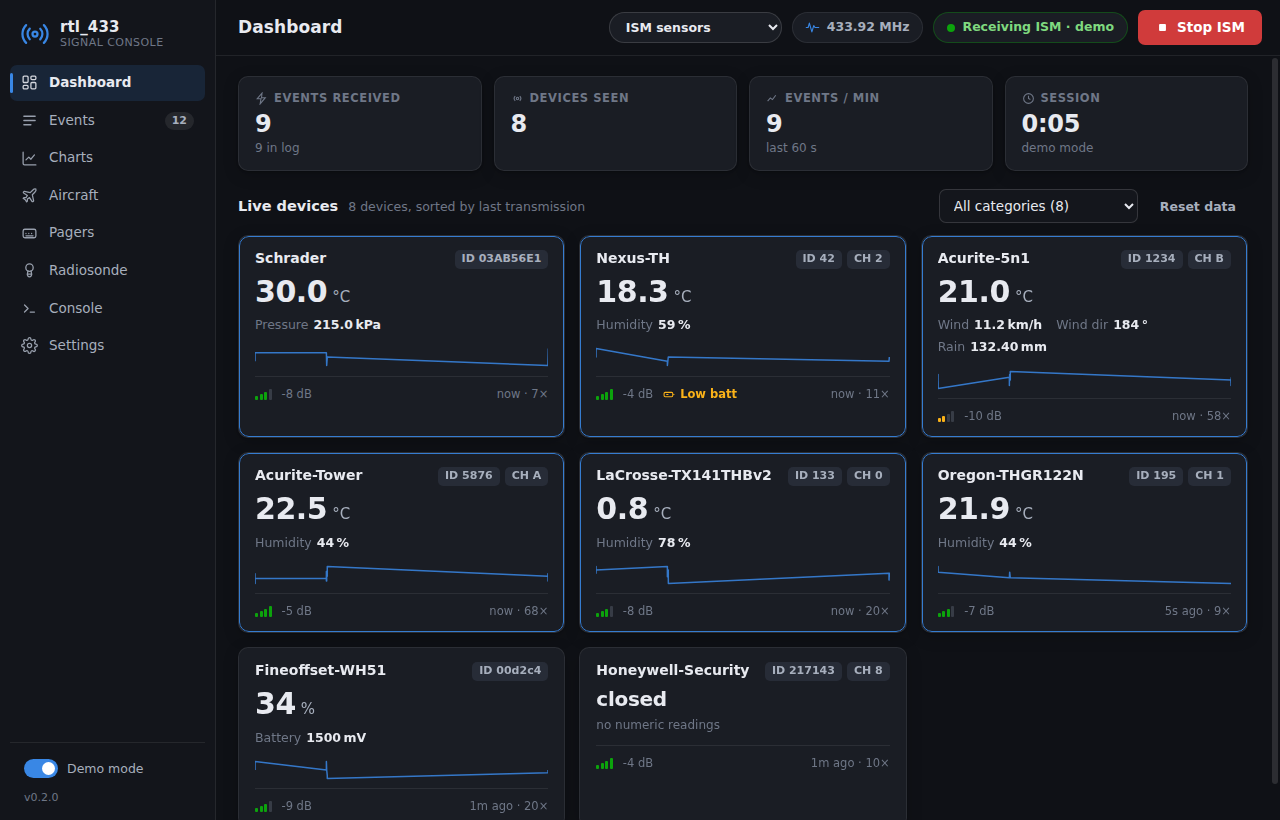
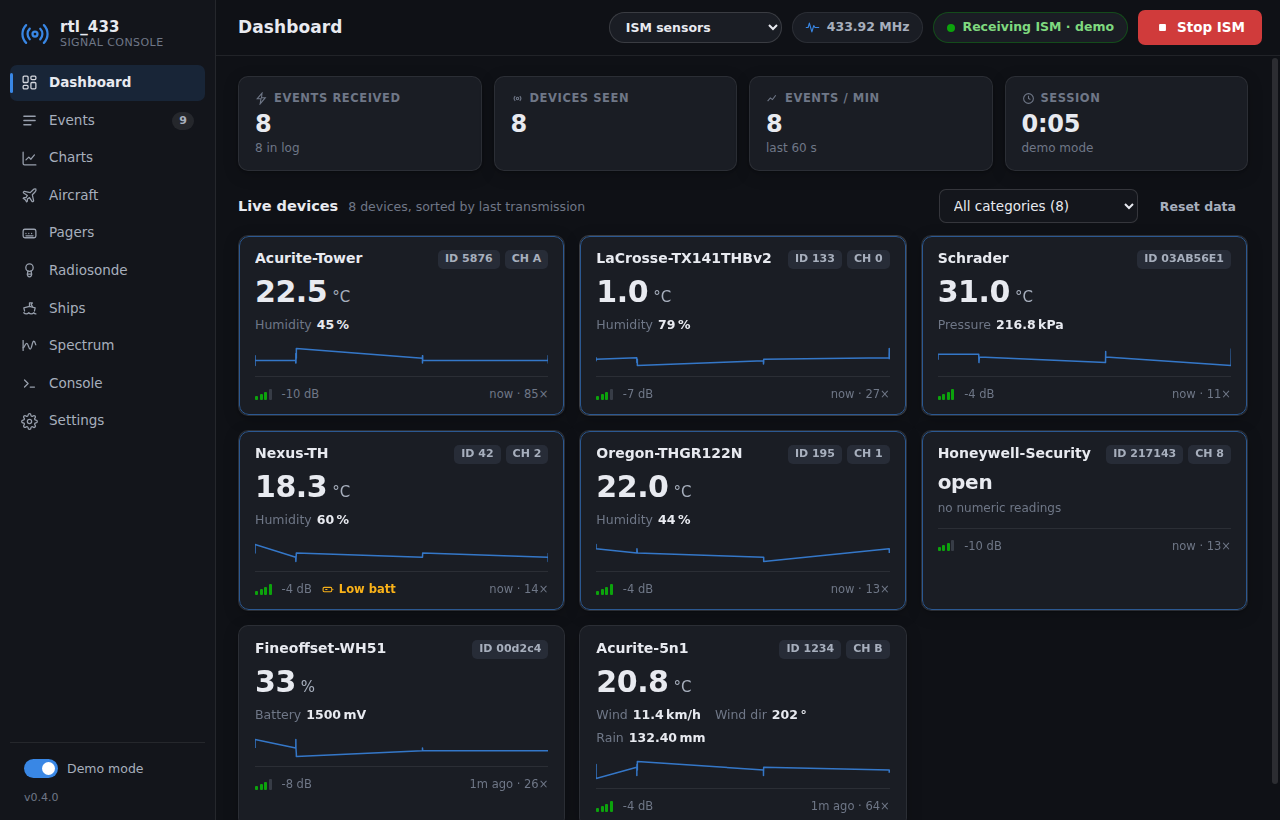
Refresh READMEs and screenshots for 0.4.0
Mode-overview table at the top, all screenshots re-captured at 0.4.0
(new sidebar with all six modes), radiosonde/AIS sections updated to
what actually shipped, gui/README feature list rewritten, roadmap now
lists genuinely-future items (ACARS, FLARM/OGN, community feeds).

Claude-Session: https://claude.ai/code/session_01Qqgn7sB64pZNv3p4Phjj2r

diff --git a/README.md b/README.md
@@ -1,21 +1,31 @@
 # rtl_433 GUI
 
-**This fork adds a polished desktop GUI for rtl_433** — a live sensor dashboard,
-event log, time-series charts and full receiver settings, packaged as a Windows
-installer. The GUI wraps the `rtl_433` command-line receiver and turns its JSON
-output into a live signal console.
+**This fork adds a polished desktop GUI for rtl_433** — a full RTL-SDR signal
+console packaged as a Windows installer, with **six receiver modes** that can
+run concurrently across multiple dongles:
+
+| Mode | Band | What you see |
+|---|---|---|
+| **ISM sensors** | 433 / 868 / 915 / 315 MHz | live device dashboard, event log, charts, MQTT |
+| **ADS-B aircraft** | 1090 MHz | dark map, altitude-colored planes, trails, coverage |
+| **POCSAG pagers** | regional VHF/UHF | live message table (alpha + numeric) |
+| **Radiosondes** | 400–406 MHz | balloon on the map with full telemetry (5 sonde types) |
+| **AIS ships** | 161.975 / 162.025 MHz | vessels with wakes on the map |
+| **Spectrum** | anywhere | sweep trace + waterfall, click-to-tune audio monitor |
 
 ![rtl_433 GUI dashboard](gui/docs/dashboard.png)
 
 ## Download
 
 Grab **`rtl_433 GUI Setup <version>.exe`** (or the portable `.zip`) from the
-[**Releases**](../../releases) page and run it. A statically linked
-`rtl_433.exe` built from this repository is **bundled with the app** — nothing
-else to install. Plug in your RTL-SDR dongle (install its WinUSB driver once
-with [Zadig](https://zadig.akeo.ie/) if needed) and press **Start** — or flip
-on **Demo mode** in the sidebar to explore the app with simulated sensor
-traffic, no hardware needed.
+[**Releases**](../../releases) page and run it. Everything is **bundled** —
+nine statically linked receiver tools (`rtl_433`, `rtl_adsb`, `rtl_fm`,
+`rtl_power` and five radiosonde decoders), nothing else to install — and the
+app **updates itself** from GitHub Releases from 0.4.0 on. Plug in your
+RTL-SDR dongle (install its WinUSB driver once with
+[Zadig](https://zadig.akeo.ie/) if needed) and press **Start** — or flip on
+**Demo mode** in the sidebar to explore every view with simulated traffic, no
+hardware needed.
 
 ## What you get
 
@@ -67,10 +77,11 @@ against the protocol's published codewords.
 
 ![pagers](gui/docs/pagers.png)
 
-**Radiosonde tracking (RS41)** — follow weather balloons at 400–406 MHz on the
-map: live altitude, climb rate, wind drift, temperature and battery telemetry,
-decoded by the bundled reference decoder (`rs41mod` from
-[rs1729/RS](https://github.com/rs1729/RS)). Launches happen worldwide around
+**Radiosonde tracking** — follow weather balloons at 400–406 MHz on the map:
+live altitude, climb rate, wind drift, temperature and battery telemetry, with
+ascent/descent phase detection. Five sonde types are supported (RS41, DFM-09/17,
+M10, M20, iMet-54) via the bundled reference decoders from
+[rs1729/RS](https://github.com/rs1729/RS). Launches happen worldwide around
 00:00 and 12:00 UTC.
 
 ![radiosonde](gui/docs/sonde.png)
@@ -112,17 +123,21 @@ rings and a coverage plot around your receiver location, five radiosonde types
 NDJSON event logging with retention, and automatic updates from GitHub
 Releases.
 
-**Console** — the raw rtl_433 stderr stream with timestamps, for
-troubleshooting driver, gain or decoder issues.
+**Console** — every pipeline's raw output with timestamps, for troubleshooting
+driver, gain or decoder issues; the exact command line for each receiver is
+always logged there.
 
-See [gui/](gui/) for build instructions and development notes. The GUI runs
-`rtl_433 -F json` (or `rtl_adsb` in aircraft mode) as a managed child process;
-settings map 1:1 onto the tools' command-line options.
+See [gui/](gui/) for build instructions, the bundled-binaries table and
+development notes. Each mode runs its receiver tool as a managed child process
+(`rtl_433 -F json`, `rtl_adsb`, `rtl_fm`, `rtl_power`, sonde decoders);
+settings map 1:1 onto the tools' command-line options, and POCSAG, Mode S and
+AIS are decoded in the app itself with unit tests against published reference
+vectors.
 
-**Roadmap ideas** — the receiver-mode architecture leaves room for more modes:
-AIS ship tracking (162 MHz) on the existing map, more radiosonde types (DFM,
-M10/M20, iMet), and FLARM/OGN glider tracking are natural next steps.
-Contributions welcome.
+**Roadmap ideas** — the receiver-mode architecture leaves room for more:
+ACARS aircraft messaging, FLARM/OGN glider tracking, more sonde types, and
+feeding community networks (SondeHub, ADS-B aggregators). Contributions
+welcome.
 
 ---
 

diff --git a/gui/README.md b/gui/README.md
@@ -1,31 +1,49 @@
 # rtl_433 GUI
 
-A polished desktop GUI for [rtl_433](https://github.com/merbanan/rtl_433), built for
-Windows (runs on Linux/macOS too). It wraps the `rtl_433` command-line receiver and
-turns its JSON output into a live dashboard.
+A polished desktop GUI for [rtl_433](https://github.com/merbanan/rtl_433) and
+friends, built for Windows (runs on Linux/macOS too) — an RTL-SDR signal
+console with six receiver modes that run concurrently across multiple dongles.
 
 ![dashboard](docs/dashboard.png)
 
 ## Features
 
-- **Dashboard** — live cards for every device heard, with headline reading,
-  sparkline, signal bars, low-battery warnings and last-seen age. Click a card to
-  chart it.
+- **Dashboard (ISM sensors)** — live cards for every device heard, with
+  headline reading, sparkline, signal bars, low-battery warnings, category
+  filter and last-seen age. Click a card to chart it.
 - **Events** — filterable, pausable log of every decoded transmission with
-  expandable raw JSON, and CSV / NDJSON export.
-- **Charts** — time-series of any recorded metric (temperature, humidity, wind,
-  pressure…), overlaying up to three devices, with crosshair tooltips and
-  15 min / 1 h / 6 h / all ranges.
-- **Console** — the raw rtl_433 stderr stream for troubleshooting.
-- **Settings** — SDR device, frequency (with band presets and hopping), sample
-  rate, gain, PPM correction, per-protocol decoder toggles (all 378 protocols,
-  searchable), units, and free-form extra arguments.
-- **Demo mode** — replay realistic simulated sensor traffic with no SDR or
-  rtl_433 install needed. Great for a first look.
+  expandable raw JSON, CSV / NDJSON export, and optional daily NDJSON logging
+  to disk with retention.
+- **Charts** — time-series of any recorded metric, overlaying up to three
+  devices, with crosshair tooltips and 15 min / 1 h / 6 h / all ranges.
+  Device history persists across restarts.
+- **Aircraft (ADS-B, 1090 MHz)** — altitude-colored planes with trails on a
+  dark map, airline lookup, range rings, per-bearing coverage plot and
+  max-range stat; Mode S decoded in-app (CRC + CPR, reference-vector tested).
+- **Pagers (POCSAG)** — 512/1200/2400 baud decoded in-app with BCH error
+  correction; live message table with export.
+- **Radiosonde** — RS41 / DFM / M10 / M20 / iMet-54 balloons on the map with
+  altitude, climb, wind and PTU telemetry via the bundled rs1729/RS decoders.
+- **Ships (AIS)** — vessels with wakes on the map, decoded in-app (HDLC,
+  CRC-16/X.25, position + static reports).
+- **Spectrum** — rtl_power sweeps with live trace, max hold and waterfall;
+  band presets; click a peak and **listen** to it (FM/AM audio monitor).
+- **Alert rules** — thresholds, change detection and time windows per
+  device/metric, with desktop notifications and a dashboard alert strip.
+- **Integrations** — MQTT output for Home Assistant, straight from rtl_433.
+- **Console** — every pipeline's stderr stream for troubleshooting.
+- **Settings** — per-mode SDR device selection (multi-dongle), frequencies
+  with presets and hopping, gains, PPM, per-protocol decoder toggles (all 378
+  rtl_433 protocols), units, receiver location, tray behavior, auto-start /
+  auto-restart, notifications and free-form extra arguments.
+- **Demo mode** — every mode has a realistic simulator; explore the whole app
+  with no hardware.
+- **Auto-update** — packaged builds update themselves from GitHub Releases.
 
-The GUI runs `rtl_433 -F json` as a child process and parses its line-delimited
-JSON output; settings map 1:1 onto rtl_433 command-line options, and the exact
-command line used is always shown in the Console view.
+Each mode runs its receiver tool as a managed child process and the exact
+command line used is always shown in the Console view; POCSAG, Mode S/ADS-B
+and AIS are decoded in the app itself with unit tests against published
+reference vectors.
 
 ## Running from source
 
@@ -42,8 +60,8 @@ npm run start:demo # demo mode, no hardware needed
 
 Grab **`rtl_433 GUI Setup <version>.exe`** from the repository's
 [Releases](../../../releases) page (or the portable `.zip` if you prefer no
-installer), run it, and point **Settings → Receiver** at your `rtl_433.exe` if
-it isn't on the `PATH`.
+installer) and run it — all receiver tools are bundled, and the app keeps
+itself up to date from Releases.
 
 ## Building the Windows installer
 
